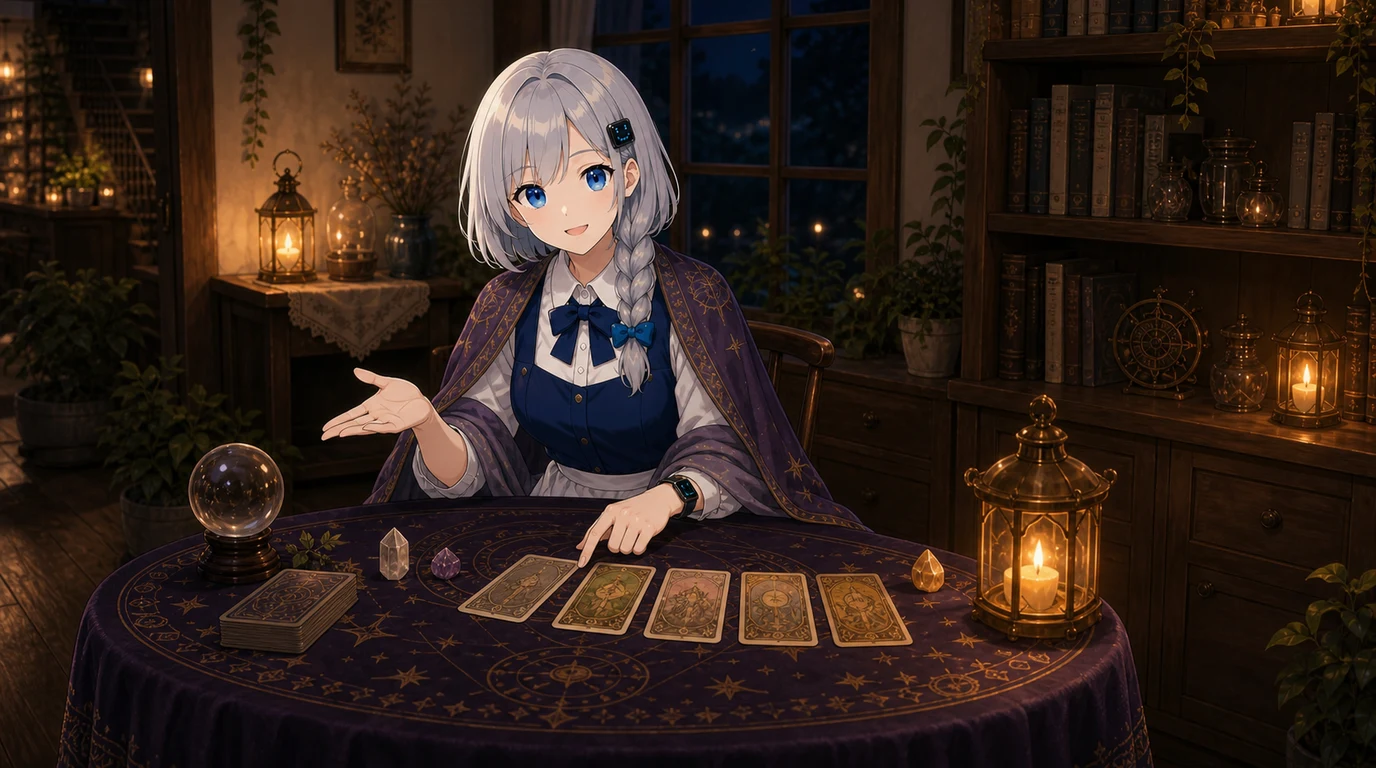
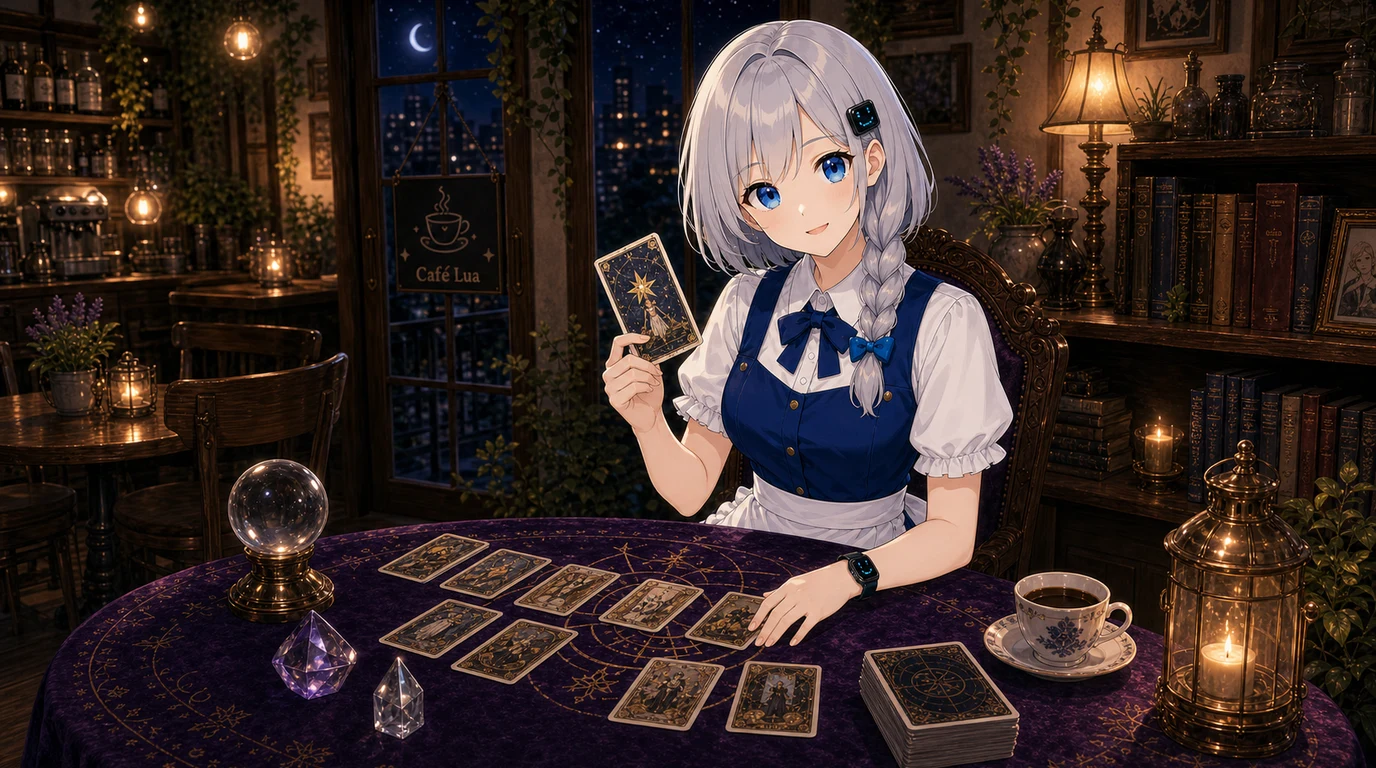
feat: add v34 coffee chat and tarot visuals

diff --git a/src/lib/coffeeChatIllustrations.ts b/src/lib/coffeeChatIllustrations.ts
@@ -1,0 +1,63 @@
+import type { Season, TimeOfDay, Weather } from './environmentBackgrounds';
+
+const COFFEE_CHAT_ILLUSTRATIONS = {
+    springDaySunny: '/characters/alpha/coffee-chat/coffee_chat_spring_day_sunny_a.webp',
+    summerDayRain: '/characters/alpha/coffee-chat/coffee_chat_summer_day_rain_a.webp',
+    autumnSunsetClear: '/characters/alpha/coffee-chat/coffee_chat_autumn_sunset_clear_a.webp',
+    winterNightSnow: '/characters/alpha/coffee-chat/coffee_chat_winter_night_snow_a.webp',
+    nightClear: '/characters/alpha/coffee-chat/coffee_chat_night_clear_a.webp',
+} as const;
+
+const pick = (candidates: string[]) => {
+    const index = Math.floor(Math.random() * candidates.length);
+    return candidates[index] ?? COFFEE_CHAT_ILLUSTRATIONS.springDaySunny;
+};
+
+export const resolveCoffeeChatIllustrationSrc = (
+    season: Season,
+    time: TimeOfDay,
+    weather: Weather,
+    isChristmas: boolean
+) => {
+    if (isChristmas || weather === 'snow') {
+        return COFFEE_CHAT_ILLUSTRATIONS.winterNightSnow;
+    }
+
+    if (weather === 'rain' || weather === 'storm') {
+        return COFFEE_CHAT_ILLUSTRATIONS.summerDayRain;
+    }
+
+    if (time === 'night' || time === 'closed') {
+        return pick([
+            COFFEE_CHAT_ILLUSTRATIONS.nightClear,
+            ...(season === 'winter' ? [COFFEE_CHAT_ILLUSTRATIONS.winterNightSnow] : []),
+        ]);
+    }
+
+    if (time === 'sunset') {
+        return pick([
+            COFFEE_CHAT_ILLUSTRATIONS.autumnSunsetClear,
+            ...(season === 'spring' ? [COFFEE_CHAT_ILLUSTRATIONS.springDaySunny] : []),
+        ]);
+    }
+
+    if (season === 'autumn') {
+        return COFFEE_CHAT_ILLUSTRATIONS.autumnSunsetClear;
+    }
+
+    if (season === 'winter') {
+        return pick([
+            COFFEE_CHAT_ILLUSTRATIONS.winterNightSnow,
+            COFFEE_CHAT_ILLUSTRATIONS.nightClear,
+        ]);
+    }
+
+    if (season === 'summer') {
+        return pick([
+            COFFEE_CHAT_ILLUSTRATIONS.springDaySunny,
+            COFFEE_CHAT_ILLUSTRATIONS.summerDayRain,
+        ]);
+    }
+
+    return COFFEE_CHAT_ILLUSTRATIONS.springDaySunny;
+};

diff --git a/src/components/CounterPage.tsx b/src/components/CounterPage.tsx
@@ -7,6 +7,7 @@ import UnderConstruction from './UnderConstruction';
 import CoffeeChatDialog from './CoffeeChatDialog';
 import { resolveEnvironmentBackgroundSrc, type Season, type TimeOfDay, type Weather } from '../lib/environmentBackgrounds';
 import { parseRuntimeEnvironmentFromSearchParams } from '../lib/environmentContext';
+import { resolveCoffeeChatIllustrationSrc } from '../lib/coffeeChatIllustrations';
 
 const CounterPage: React.FC = () => {
     const { t } = useTranslation();
@@ -28,10 +29,14 @@ const CounterPage: React.FC = () => {
 
     const environmentContext = useMemo(() => {
         return parseRuntimeEnvironmentFromSearchParams(searchParams, {
-            space: '1층 카운터 커피챗',
+            space: '카페루아 커피챗',
             backgroundSrc: backgroundImage,
         });
     }, [backgroundImage, searchParams]);
+
+    const coffeeChatIllustrationSrc = useMemo(() => {
+        return resolveCoffeeChatIllustrationSrc(season, time, weather, isChristmas);
+    }, [isChristmas, season, time, weather]);
 
     useEffect(() => {
         setIsChatOpen(searchParams.get('chat') === 'open');
@@ -82,6 +87,7 @@ const CounterPage: React.FC = () => {
         return (
             <CoffeeChatDialog
                 backgroundSrc={backgroundImage}
+                illustrationSrc={coffeeChatIllustrationSrc}
                 environmentContext={environmentContext}
                 onClose={handleCloseCoffeeChat}
             />

diff --git a/src/components/CoffeeChatDialog.tsx b/src/components/CoffeeChatDialog.tsx
@@ -33,6 +33,7 @@ import './CoffeeChatDialog.css';
 
 interface CoffeeChatDialogProps {
     backgroundSrc: string;
+    illustrationSrc?: string;
     environmentContext: RuntimeEnvironmentContext;
     onClose: () => void;
 }
@@ -41,6 +42,7 @@ const CHAT_TIMEOUT_MS = 5 * 60 * 1000; // 5분
 
 const CoffeeChatDialog: React.FC<CoffeeChatDialogProps> = ({
     backgroundSrc,
+    illustrationSrc = '/characters/alpha/alpha-coffee-chat.webp',
     environmentContext,
     onClose
 }) => {
@@ -349,7 +351,7 @@ const CoffeeChatDialog: React.FC<CoffeeChatDialogProps> = ({
             {/* 커피챗 일러스트 (중앙, 라운딩) */}
             <div className="construction-illustration-frame">
                 <img
-                    src="/characters/alpha/alpha-coffee-chat.webp"
+                    src={illustrationSrc}
                     alt="Alpha"
                     className="construction-illustration"
                 />

diff --git a/src/app/[locale]/tarot/page.tsx b/src/app/[locale]/tarot/page.tsx
@@ -607,9 +607,7 @@ export default function TarotPage() {
             <div
                 className="construction-bg"
                 style={{
-                    backgroundImage: isReadingMode
-                        ? 'url(/characters/alpha/alpha-tarot-ready.webp)'
-                        : 'url(/lounge-background-img/lounge-night.webp)',
+                    backgroundImage: 'url(/tarot/tarot-room-bg.webp)',
                     backgroundSize: 'cover',
                     backgroundPosition: isReadingMode ? 'center top' : 'center'
                 }}
